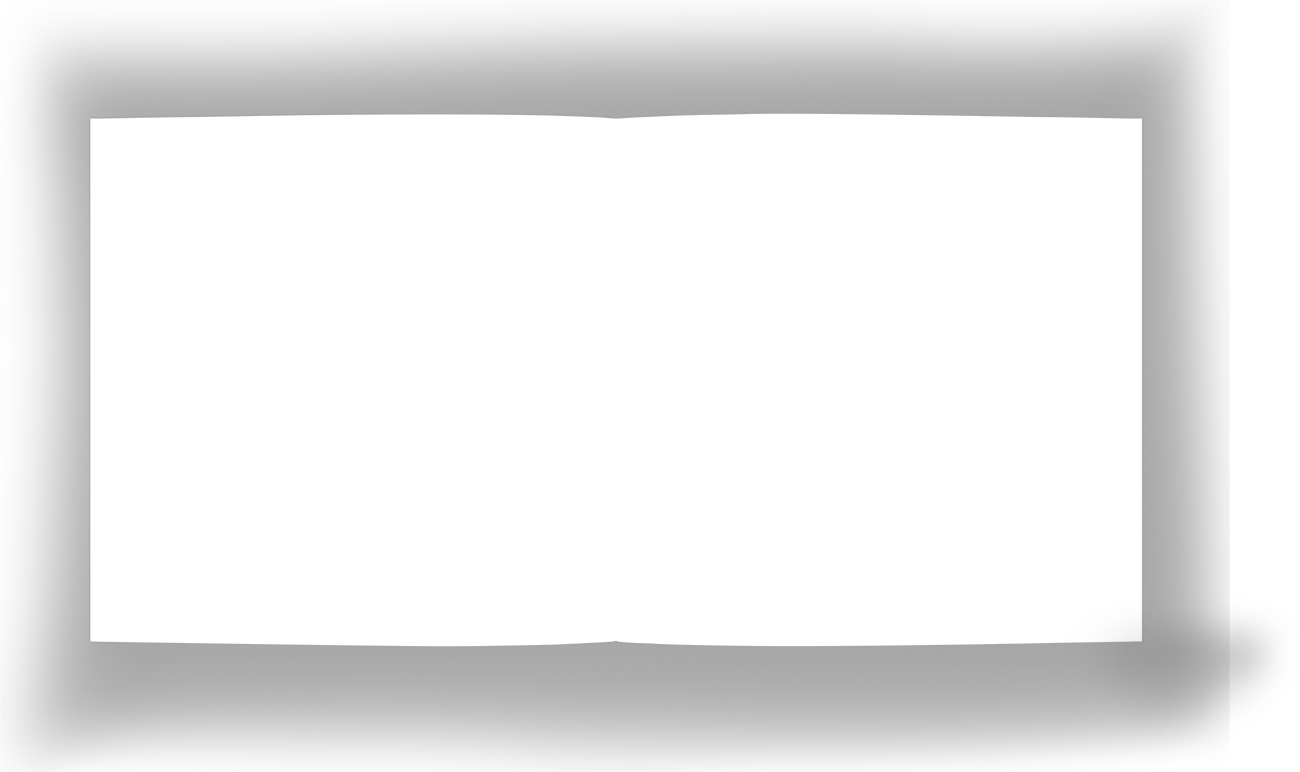
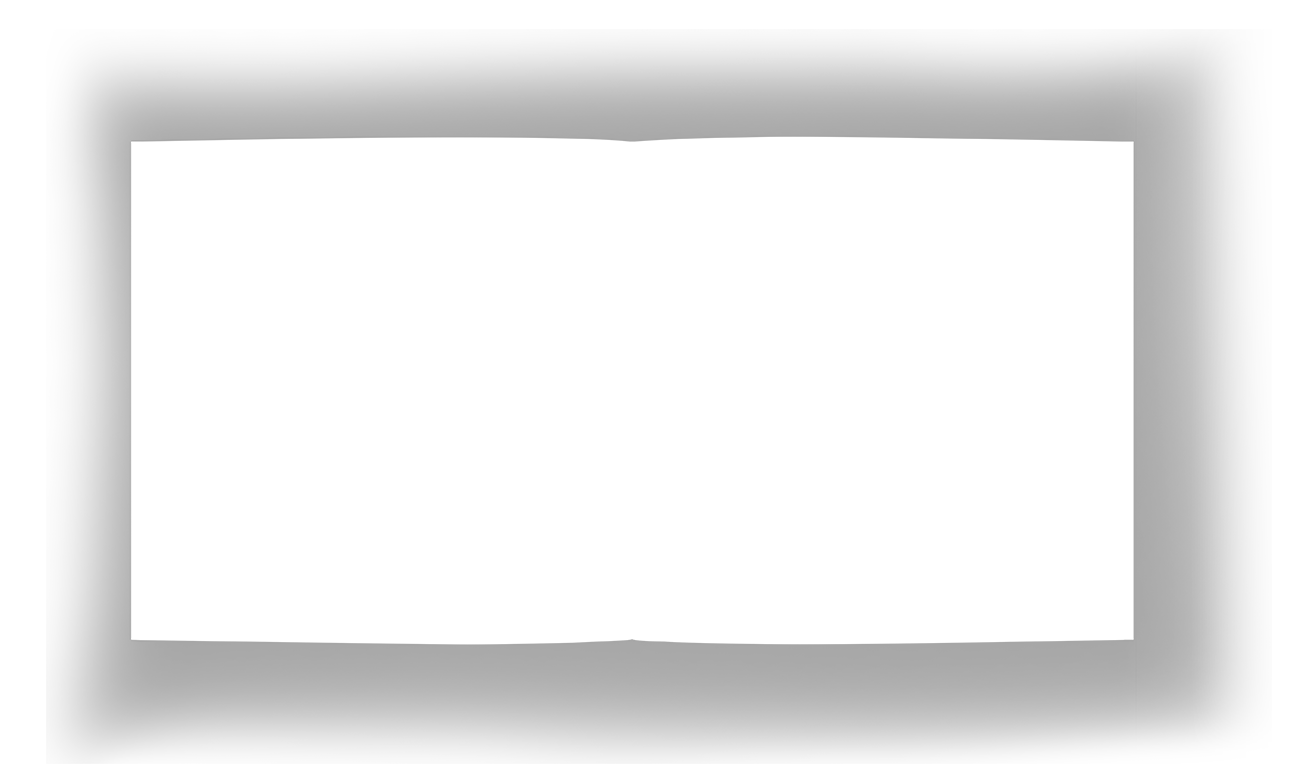
adjusted page shadows

diff --git a/static/css/styles.css b/static/css/styles.css
@@ -134,7 +134,7 @@ body{
 		height: 524px;
 		position: absolute;
 		left: 18px;
-		/* z-index: -1; */
+    border-radius: 2px;
 		-webkit-transition: 0.5s;
 		transition: 0.5s;
 		transition-timing-function: ease;
@@ -175,6 +175,7 @@ body{
 	#soundBar img {
 		width: 128px;
 		height: 524px;
+		border-radius: 0px 2px 2px 0px;
 	}
 
 	.sound-bar {

diff --git a/static/js/functions.js b/static/js/functions.js
@@ -20,6 +20,7 @@ $(window).ready(function() {
         } else {
           $('#petaBookBg').removeClass('peta-book-bg');
           $('#soundBar').removeClass('margin-left');
+          $('.container').removeClass('changed');
         }
         if(page!==1) {
           $('#introText').addClass('display-none');
